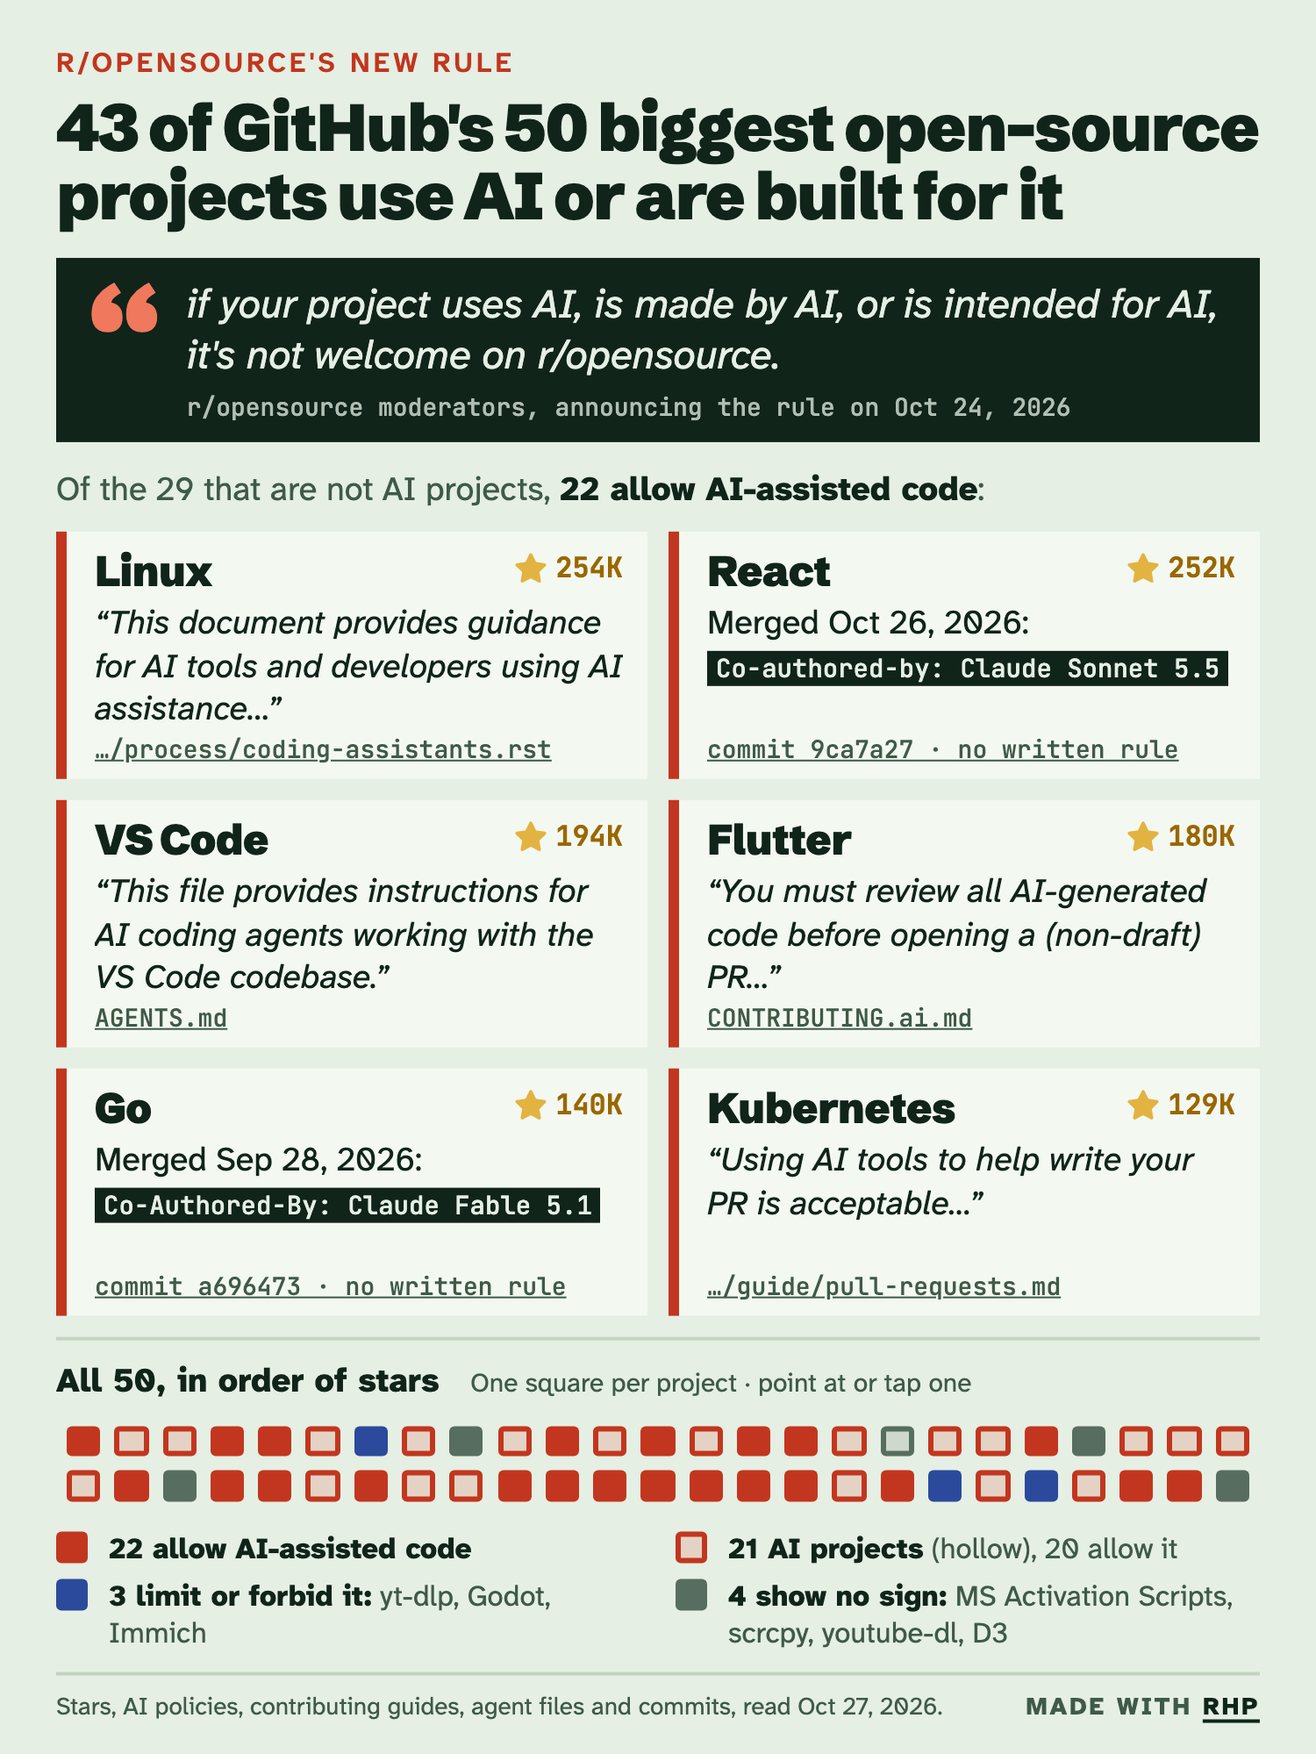
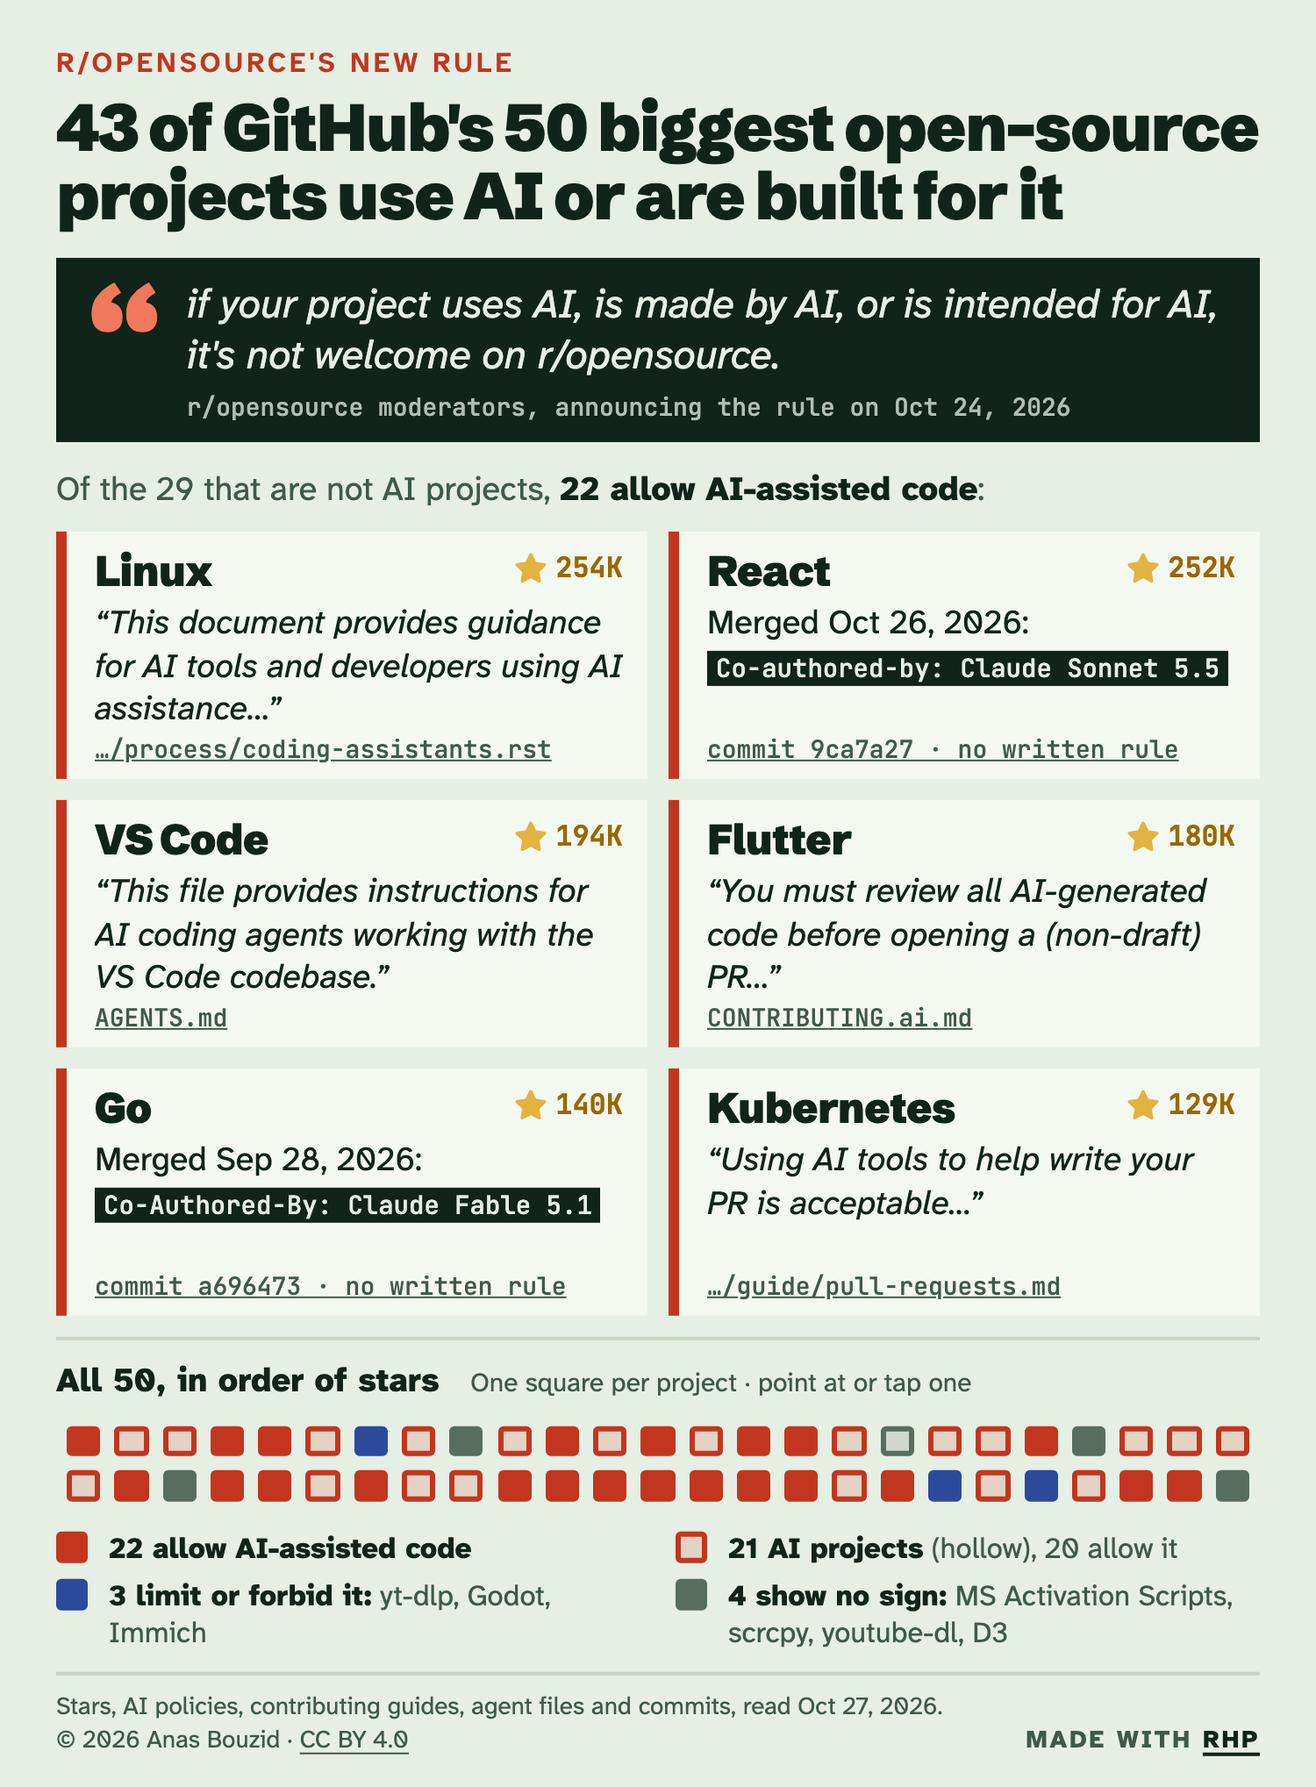
License both AI posters CC BY 4.0, on a line of its own at the bottom with the rhp credit

diff --git a/examples/real/ai-allowed/ai-allowed-chart-reddit.html b/examples/real/ai-allowed/ai-allowed-chart-reddit.html
@@ -30,8 +30,10 @@
   .rule .mark { grid-row: span 2; font: 900 104px/.8 var(--display); color: #f0785c; }
   .rule .words { font: italic 400 31px/1.27 var(--text); }
   .rule cite { margin-top: 7px; font: 500 20px/1.3 var(--mono); font-style: normal; color: color-mix(in oklab, var(--paper) 78%, var(--ink)); }
-  /* The credit, in the note's last line on the right */
-  .credit { float: right; margin-left: 24px; font-weight: 700; letter-spacing: .1em; text-transform: uppercase; white-space: nowrap; }
+  /* The note's last line: the poster's license on the left, the credit on the right */
+  .foot { display: flex; flex-wrap: wrap; gap: 0 24px; }
+  .license a { color: inherit; text-decoration-thickness: 1px; text-underline-offset: 3px; }
+  .credit { margin-left: auto; font-weight: 700; letter-spacing: .1em; text-transform: uppercase; white-space: nowrap; }
   .credit a { color: var(--ink); text-decoration-thickness: 2px; text-underline-offset: 3px; }
   /* The key: what each color and each kind of mark means */
   .keys { order: 5; display: flex; flex-wrap: wrap; gap: 8px 28px; margin: 0 0 12px; padding: 0; list-style: none; font-size: 24px; font-weight: 600; }
@@ -235,7 +237,7 @@ function OpenSourceAi() {
     <${Poster}
       title="Linux, React and VS Code all allow AI-assisted code"
       dek=${html`<span>The ${ROWS.length} most-starred open-source projects on GitHub that meet the subreddit's other new rules. <b>${aiCount} are AI projects</b>, and of the other ${notAi.length}, <b>${notAiAllow.length} allow AI-assisted contributions</b>, by written policy or in practice.</span>`}
-      note=${html`<span>GitHub stars and each project's own files (contributing guide, AI policy, instructions for AI agents, merged commits), read ${date.format(new Date(DATA.readAt))}. Projects shown have an OSI license, are a year old and maintained, and have 3+ contributors; no lists, books or courses. "In practice": no written rule, but merged commits credit an AI tool. MAS: Microsoft Activation Scripts.</span><span class="credit">Made with${" "}<a href="https://github.com/bezda-team/rhp" target="_blank" rel="noopener">rhp</a></span>`}
+      note=${html`<span>GitHub stars and each project's own files (contributing guide, AI policy, instructions for AI agents, merged commits), read ${date.format(new Date(DATA.readAt))}. Projects shown have an OSI license, are a year old and maintained, and have 3+ contributors; no lists, books or courses. "In practice": no written rule, but merged commits credit an AI tool. MAS: Microsoft Activation Scripts.</span><span class="foot"><span class="license">© 2026 Anas Bouzid ·${" "}<a href="https://creativecommons.org/licenses/by/4.0/" target="_blank" rel="noopener license">CC BY 4.0</a></span><span class="credit">Made with${" "}<a href="https://github.com/bezda-team/rhp" target="_blank" rel="noopener">rhp</a></span></span>`}
       onPointerMove=${move} onClick=${pick} onFocusIn=${pick}
       onPointerLeave=${leave} onFocusOut=${(e) => !e.currentTarget.contains(e.relatedTarget) && setPicked(null)}>
       <blockquote class="rule"><span class="mark" aria-hidden="true">“</span><span class="words">${RULE.text}</span><cite>${RULE.by}</cite></blockquote>

diff --git a/examples/real/ai-allowed/ai-allowed-chart.html b/examples/real/ai-allowed/ai-allowed-chart.html
@@ -30,8 +30,10 @@
   .rule .mark { grid-row: span 2; font: 900 104px/.8 var(--display); color: #f0785c; }
   .rule .words { font: italic 400 31px/1.27 var(--text); }
   .rule cite { margin-top: 7px; font: 500 20px/1.3 var(--mono); font-style: normal; color: color-mix(in oklab, var(--paper) 78%, var(--ink)); }
-  /* The credit, in the note's last line on the right */
-  .credit { float: right; margin-left: 24px; font-weight: 700; letter-spacing: .1em; text-transform: uppercase; white-space: nowrap; }
+  /* The note's last line: the poster's license on the left, the credit on the right */
+  .foot { display: flex; flex-wrap: wrap; gap: 0 24px; }
+  .license a { color: inherit; text-decoration-thickness: 1px; text-underline-offset: 3px; }
+  .credit { margin-left: auto; font-weight: 700; letter-spacing: .1em; text-transform: uppercase; white-space: nowrap; }
   .credit a { color: var(--ink); text-decoration-thickness: 2px; text-underline-offset: 3px; }
   /* The key: what each color and each kind of mark means */
   .keys { order: 5; display: flex; flex-wrap: wrap; gap: 8px 28px; margin: 0 0 12px; padding: 0; list-style: none; font-size: 24px; font-weight: 600; }
@@ -235,7 +237,7 @@ function OpenSourceAi() {
     <${Poster}
       title="Linux, React and VS Code all allow AI-assisted code"
       dek=${html`<span>The ${ROWS.length} most-starred open-source projects on GitHub that meet the subreddit's other new rules. <b>${aiCount} are AI projects</b>, and of the other ${notAi.length}, <b>${notAiAllow.length} allow AI-assisted contributions</b>, by written policy or in practice.</span>`}
-      note=${html`<span>GitHub stars and each project's own files (contributing guide, AI policy, instructions for AI agents, merged commits), read ${date.format(new Date(DATA.readAt))}. Projects shown have an OSI license, are a year old and maintained, and have 3+ contributors; no lists, books or courses. "In practice": no written rule, but merged commits credit an AI tool. MAS: Microsoft Activation Scripts.</span><span class="credit">Made with${" "}<a href="https://github.com/bezda-team/rhp" target="_blank" rel="noopener">rhp</a></span>`}
+      note=${html`<span>GitHub stars and each project's own files (contributing guide, AI policy, instructions for AI agents, merged commits), read ${date.format(new Date(DATA.readAt))}. Projects shown have an OSI license, are a year old and maintained, and have 3+ contributors; no lists, books or courses. "In practice": no written rule, but merged commits credit an AI tool. MAS: Microsoft Activation Scripts.</span><span class="foot"><span class="license">© 2026 Anas Bouzid ·${" "}<a href="https://creativecommons.org/licenses/by/4.0/" target="_blank" rel="noopener license">CC BY 4.0</a></span><span class="credit">Made with${" "}<a href="https://github.com/bezda-team/rhp" target="_blank" rel="noopener">rhp</a></span></span>`}
       onPointerMove=${move} onClick=${pick} onFocusIn=${pick}
       onPointerLeave=${leave} onFocusOut=${(e) => !e.currentTarget.contains(e.relatedTarget) && setPicked(null)}>
       <blockquote class="rule"><span class="mark" aria-hidden="true">“</span><span class="words">${RULE.text}</span><cite>${RULE.by}</cite></blockquote>

diff --git a/examples/real/ai-allowed/chart.template.html b/examples/real/ai-allowed/chart.template.html
@@ -30,8 +30,10 @@
   .rule .mark { grid-row: span 2; font: 900 104px/.8 var(--display); color: #f0785c; }
   .rule .words { font: italic 400 31px/1.27 var(--text); }
   .rule cite { margin-top: 7px; font: 500 20px/1.3 var(--mono); font-style: normal; color: color-mix(in oklab, var(--paper) 78%, var(--ink)); }
-  /* The credit, in the note's last line on the right */
-  .credit { float: right; margin-left: 24px; font-weight: 700; letter-spacing: .1em; text-transform: uppercase; white-space: nowrap; }
+  /* The note's last line: the poster's license on the left, the credit on the right */
+  .foot { display: flex; flex-wrap: wrap; gap: 0 24px; }
+  .license a { color: inherit; text-decoration-thickness: 1px; text-underline-offset: 3px; }
+  .credit { margin-left: auto; font-weight: 700; letter-spacing: .1em; text-transform: uppercase; white-space: nowrap; }
   .credit a { color: var(--ink); text-decoration-thickness: 2px; text-underline-offset: 3px; }
   /* The key: what each color and each kind of mark means */
   .keys { order: 5; display: flex; flex-wrap: wrap; gap: 8px 28px; margin: 0 0 12px; padding: 0; list-style: none; font-size: 24px; font-weight: 600; }
@@ -235,7 +237,7 @@ function OpenSourceAi() {
     <${Poster}
       title="Linux, React and VS Code all allow AI-assisted code"
       dek=${html`<span>The ${ROWS.length} most-starred open-source projects on GitHub that meet the subreddit's other new rules. <b>${aiCount} are AI projects</b>, and of the other ${notAi.length}, <b>${notAiAllow.length} allow AI-assisted contributions</b>, by written policy or in practice.</span>`}
-      note=${html`<span>GitHub stars and each project's own files (contributing guide, AI policy, instructions for AI agents, merged commits), read ${date.format(new Date(DATA.readAt))}. Projects shown have an OSI license, are a year old and maintained, and have 3+ contributors; no lists, books or courses. "In practice": no written rule, but merged commits credit an AI tool. MAS: Microsoft Activation Scripts.</span><span class="credit">Made with${" "}<a href="https://github.com/bezda-team/rhp" target="_blank" rel="noopener">rhp</a></span>`}
+      note=${html`<span>GitHub stars and each project's own files (contributing guide, AI policy, instructions for AI agents, merged commits), read ${date.format(new Date(DATA.readAt))}. Projects shown have an OSI license, are a year old and maintained, and have 3+ contributors; no lists, books or courses. "In practice": no written rule, but merged commits credit an AI tool. MAS: Microsoft Activation Scripts.</span><span class="foot"><span class="license">© 2026 Anas Bouzid ·${" "}<a href="https://creativecommons.org/licenses/by/4.0/" target="_blank" rel="noopener license">CC BY 4.0</a></span><span class="credit">Made with${" "}<a href="https://github.com/bezda-team/rhp" target="_blank" rel="noopener">rhp</a></span></span>`}
       onPointerMove=${move} onClick=${pick} onFocusIn=${pick}
       onPointerLeave=${leave} onFocusOut=${(e) => !e.currentTarget.contains(e.relatedTarget) && setPicked(null)}>
       <blockquote class="rule"><span class="mark" aria-hidden="true">“</span><span class="words">${RULE.text}</span><cite>${RULE.by}</cite></blockquote>

diff --git a/examples/real/ai-allowed/ai-allowed-infographic.html b/examples/real/ai-allowed/ai-allowed-infographic.html
@@ -46,8 +46,10 @@
   .card code { display: inline-block; margin-top: 3px; padding: 0 5px; background: var(--ink); color: var(--paper); font: 500 14.5px/1.4 var(--mono); }
   .card .src { font: 500 14px/1.3 var(--mono); color: var(--soft); white-space: nowrap; overflow: hidden; text-overflow: ellipsis; }
   .card .src a { color: inherit; text-decoration-thickness: 1px; text-underline-offset: 3px; }
-  /* The credit, in the note's last line on the right */
-  .credit { float: right; margin-left: 24px; font-weight: 700; letter-spacing: .1em; text-transform: uppercase; white-space: nowrap; }
+  /* The note's last line: the poster's license on the left, the credit on the right */
+  .foot { display: flex; flex-wrap: wrap; gap: 0 24px; }
+  .license a { color: inherit; text-decoration-thickness: 1px; text-underline-offset: 3px; }
+  .credit { margin-left: auto; font-weight: 700; letter-spacing: .1em; text-transform: uppercase; white-space: nowrap; }
   .credit a { color: var(--ink); text-decoration-thickness: 2px; text-underline-offset: 3px; }
   /* All 50: one square per project in order of stars, and what each kind of square counts */
   .all { order: 6; display: grid; grid-template-columns: auto minmax(0, 1fr); column-gap: 18px; margin-top: 12px; padding-top: 12px; border-top: 2px solid var(--rule); }
@@ -200,7 +202,7 @@ function TheRuleAndTheRepos() {
       kicker="r/opensource's new rule"
       title=${html`<span>${ai.length + allow.length} of GitHub's ${PROJECTS.length} biggest <span class="nobreak">open-source</span> projects use AI or are built for it</span>`}
       dek=${html`<span>Of the ${others.length} that are not AI projects, <b>${allow.length} allow AI-assisted code</b>:</span>`}
-      note=${html`<span>Stars, AI policies, contributing guides, agent files and commits, read ${date.format(new Date(DATA.readAt))}.</span><span class="credit">Made with${" "}<a href="https://github.com/bezda-team/rhp" target="_blank" rel="noopener">rhp</a></span>`}
+      note=${html`<span>Stars, AI policies, contributing guides, agent files and commits, read ${date.format(new Date(DATA.readAt))}.</span><span class="foot"><span class="license">© 2026 Anas Bouzid ·${" "}<a href="https://creativecommons.org/licenses/by/4.0/" target="_blank" rel="noopener license">CC BY 4.0</a></span><span class="credit">Made with${" "}<a href="https://github.com/bezda-team/rhp" target="_blank" rel="noopener">rhp</a></span></span>`}
       onPointerMove=${move} onClick=${pick} onFocusIn=${pick}
       onPointerLeave=${leave} onFocusOut=${(e) => !e.currentTarget.contains(e.relatedTarget) && setPicked(null)}>
       <blockquote class="rule"><span class="mark" aria-hidden="true">“</span><span class="words">${RULE.text}</span><cite>${RULE.by}</cite></blockquote>

diff --git a/examples/real/ai-allowed/infographic.template.html b/examples/real/ai-allowed/infographic.template.html
@@ -46,8 +46,10 @@
   .card code { display: inline-block; margin-top: 3px; padding: 0 5px; background: var(--ink); color: var(--paper); font: 500 14.5px/1.4 var(--mono); }
   .card .src { font: 500 14px/1.3 var(--mono); color: var(--soft); white-space: nowrap; overflow: hidden; text-overflow: ellipsis; }
   .card .src a { color: inherit; text-decoration-thickness: 1px; text-underline-offset: 3px; }
-  /* The credit, in the note's last line on the right */
-  .credit { float: right; margin-left: 24px; font-weight: 700; letter-spacing: .1em; text-transform: uppercase; white-space: nowrap; }
+  /* The note's last line: the poster's license on the left, the credit on the right */
+  .foot { display: flex; flex-wrap: wrap; gap: 0 24px; }
+  .license a { color: inherit; text-decoration-thickness: 1px; text-underline-offset: 3px; }
+  .credit { margin-left: auto; font-weight: 700; letter-spacing: .1em; text-transform: uppercase; white-space: nowrap; }
   .credit a { color: var(--ink); text-decoration-thickness: 2px; text-underline-offset: 3px; }
   /* All 50: one square per project in order of stars, and what each kind of square counts */
   .all { order: 6; display: grid; grid-template-columns: auto minmax(0, 1fr); column-gap: 18px; margin-top: 12px; padding-top: 12px; border-top: 2px solid var(--rule); }
@@ -200,7 +202,7 @@ function TheRuleAndTheRepos() {
       kicker="r/opensource's new rule"
       title=${html`<span>${ai.length + allow.length} of GitHub's ${PROJECTS.length} biggest <span class="nobreak">open-source</span> projects use AI or are built for it</span>`}
       dek=${html`<span>Of the ${others.length} that are not AI projects, <b>${allow.length} allow AI-assisted code</b>:</span>`}
-      note=${html`<span>Stars, AI policies, contributing guides, agent files and commits, read ${date.format(new Date(DATA.readAt))}.</span><span class="credit">Made with${" "}<a href="https://github.com/bezda-team/rhp" target="_blank" rel="noopener">rhp</a></span>`}
+      note=${html`<span>Stars, AI policies, contributing guides, agent files and commits, read ${date.format(new Date(DATA.readAt))}.</span><span class="foot"><span class="license">© 2026 Anas Bouzid ·${" "}<a href="https://creativecommons.org/licenses/by/4.0/" target="_blank" rel="noopener license">CC BY 4.0</a></span><span class="credit">Made with${" "}<a href="https://github.com/bezda-team/rhp" target="_blank" rel="noopener">rhp</a></span></span>`}
       onPointerMove=${move} onClick=${pick} onFocusIn=${pick}
       onPointerLeave=${leave} onFocusOut=${(e) => !e.currentTarget.contains(e.relatedTarget) && setPicked(null)}>
       <blockquote class="rule"><span class="mark" aria-hidden="true">“</span><span class="words">${RULE.text}</span><cite>${RULE.by}</cite></blockquote>

diff --git a/examples/real/ai-allowed/README.md b/examples/real/ai-allowed/README.md
@@ -4,10 +4,10 @@ Two Reddit posters that answer the question r/opensource's new no-AI rule raised
 They cover the 50 most-starred GitHub projects that pass the rule's other requirements, and what each one's repository says about AI in contributions.
 43 of the 50 are AI projects (21) or allow AI-assisted code (22 of the other 29: 11 by written policy, 11 in practice); yt-dlp forbids it, Godot and Immich limit it, and four show no sign either way.
 
-- `ai-allowed-infographic.html` and `.png`: the rule, six projects in their own words (Linux, React, VS Code, Flutter, Go, Kubernetes), and all 50 as squares in order of stars; a square names its project on hover, tap or focus. 750 by 1000 CSS pixels (3:4), saved at 1500 by 2002.
-- `ai-allowed-chart.html`: the rule above the headline, and all 50 projects as bars in their stance's color, AI projects hollow and tagged, in a scroll area as tall as 16 rows (the top 16 at rest; a wheel, a finger or the keyboard moves through the rest), with a box beside the shorter bars giving the picked project's rank, repository, stance, own words and source (Linux's at rest). 1080 by 1440 (3:4). Microsoft Activation Scripts is labeled MAS, and MoneyPrinterTurbo and TradingAgents are set smaller, so the box keeps clear of the bars.
-- `ai-allowed-chart-reddit.html` and `ai-allowed-chart.png`: the chart's Reddit image and the page it is saved from: the same template showing the top 16 only, with no scrolling (2160 by 2876).
-- Both posters end with "Made with rhp" in the note's last line, linking rhp's repository.
+- `ai-allowed-infographic.html` and `.png`: the rule, six projects in their own words (Linux, React, VS Code, Flutter, Go, Kubernetes), and all 50 as squares in order of stars; a square names its project on hover, tap or focus. 750 by 1019 CSS pixels (3:4 before the license line), saved at 1500 by 2037.
+- `ai-allowed-chart.html`: the rule above the headline, and all 50 projects as bars in their stance's color, AI projects hollow and tagged, in a scroll area as tall as 16 rows (the top 16 at rest; a wheel, a finger or the keyboard moves through the rest), with a box beside the shorter bars giving the picked project's rank, repository, stance, own words and source (Linux's at rest). 1080 by 1469 (3:4 before the license line). Microsoft Activation Scripts is labeled MAS, and MoneyPrinterTurbo and TradingAgents are set smaller, so the box keeps clear of the bars.
+- `ai-allowed-chart-reddit.html` and `ai-allowed-chart.png`: the chart's Reddit image and the page it is saved from: the same template showing the top 16 only, with no scrolling (2160 by 2937).
+- Both posters end with a line of their own: the license on the left ("© 2026 Anas Bouzid · CC BY 4.0", linking the license) and "Made with rhp" on the right (linking rhp's repository); on a phone the credit takes the next line.
 - `previews/` (made by `export.mjs`, not committed): each PNG at the size Reddit shows it, 390px wide on a phone and in the desktop feed's box.
 - `chart.template.html`, `infographic.template.html`: the editable pages.
 - `selection.json`: the rule that picks the 50, the AI projects with the description each rests on, and the reason for every repository left out above the 50th.
@@ -34,3 +34,11 @@ node examples/real/ai-allowed/export.mjs          # the Reddit PNGs through the 
 `fit.test.mjs` picks every bar of the chart in turn and checks that its words fit the readout, at 1280 and 390 pixels; `overlap.test.mjs` checks that the box and its hint keep 12 pixels from every bar and label, with the bars scrolled to five places.
 The rhp checker reports no problems for either page at 1280, 1024, 768, 390, 360 and 320 pixels.
 Open the HTML with an internet connection for the pinned rhp module and the PNG exporter.
+
+## License
+
+The two posters, as pages and as images (`ai-allowed-chart.png`, `ai-allowed-infographic.png`), are © 2026 Anas Bouzid and licensed under [CC BY 4.0](https://creativecommons.org/licenses/by/4.0/).
+Anyone may share and adapt them, commercially too, with credit to Anas Bouzid and a link to the license.
+GitHub's star icon on the infographic's cards is from Octicons (MIT, `assets/OCTICONS-MIT.txt`).
+The quotes are short excerpts from each project's own files and from r/opensource's rule announcement.
+The scripts and data in this folder are under rhp's MIT license.
